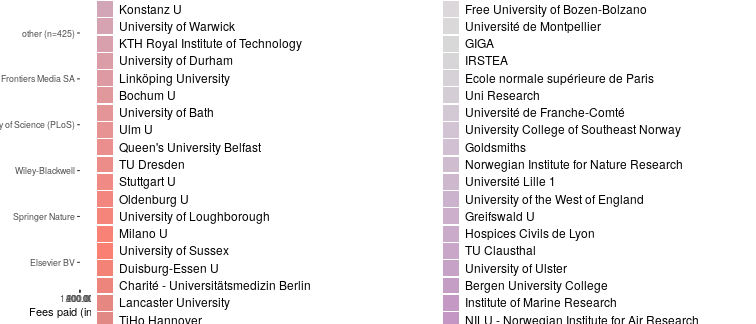
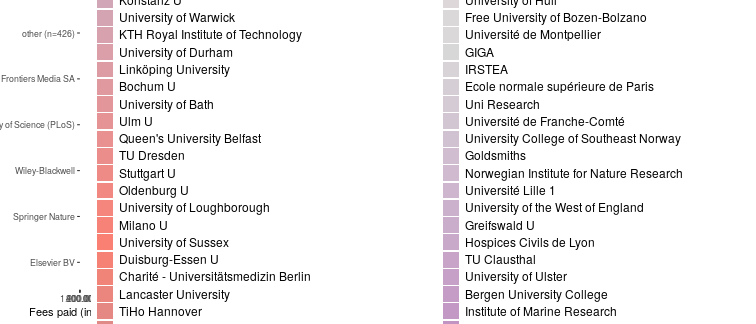
post: uni jyväskylä joins openapc

Changed region(s): [[0.578, 0.0, 0.9431, 1.0], [0.1217, 0.0, 0.4259, 1.0]]

diff --git a/about.md b/about.md
@@ -26,43 +26,43 @@ So far, the following German universities have agreed to share information on pa
 - [Heidelberg University](http://www.ub.uni-heidelberg.de/Englisch/service/openaccess/publikationsfonds.html)
 - [Humboldt-Universität zu Berlin](https://www.ub.hu-berlin.de/de/forschen-publizieren/open-access/foerdermoeglichkeiten/finanzierung/publikationsfonds?set_language=de)
 - [Leibniz Universität Hannover](https://tib.eu/oafonds)
-- [Leipzig University](https://www.ub.uni-leipzig.de/forschungsbibliothek/projekte/projekte-chronologisch/open-access-publikationsfonds/)
+- [Leipzig University](https://www.ub.uni-leipzig.de/open-science/publikationsfonds/)
 - [Ludwig-Maximilians-Universität München](http://www.en.ub.uni-muenchen.de/writing/open-access-publishing/funding/index.html)
 - [Martin-Luther-Universität Halle-Wittenberg](http://bibliothek.uni-halle.de/dbib/openaccess/publikationsfonds/)
 - [Philipps-Universität Marburg](https://www.uni-marburg.de/de/ub/forschen/open-access/publikationsfonds)
 - [Münster University](https://www.uni-muenster.de/Publizieren/service/publikationsfonds/)
 - [JGU Mainz](https://www.openaccess.uni-mainz.de/publikationsfonds-der-jgu/)
-- [JLU Giessen](https://www.uni-giessen.de/ub/en/digitales-publizieren-en/openaccess-en/oajlu-en?set_language=en)
+- [JLU Giessen](https://www.uni-giessen.de/ub/en/digitales-publizieren-en/openaccess-en/oafonds-en?set_language=en)
 - [KIT Karlsruhe](http://www.bibliothek.kit.edu/cms/kit-publikationsfonds.php)
 - [Osnabrück University](https://www.ub.uni-osnabrueck.de/publizieren_archivieren/open_access/publikationsfonds.html)
 - [Ruhr Universität Bochum](http://www.ruhr-uni-bochum.de/oa/)
 - [Technische Hochschule Wildau](https://www.th-wildau.de/hochschule/zentrale-einrichtungen/hochschulbibliothek/open-access-und-publikationsdienste/publikationsfonds/)
 - [Technische Universität Berlin](http://www.ub.tu-berlin.de/publikationsfonds/)
-- [Technische Universität Braunschweig](https://ub.tu-braunschweig.de/publikationsfonds/)
+- [Technische Universität Braunschweig](https://ub.tu-braunschweig.de/publikationsfonds/englisch/index_en.php)
 - [Technische Universität Chemnitz](https://www.tu-chemnitz.de/ub/publizieren/openaccess/index.html.en)
 - [Technische Universität Darmstadt](https://www.ulb.tu-darmstadt.de/service/elektronisches_publizieren/oa_publikationsfond/index.en.jsp)
-- [Technische Universität Dortmund](http://www.ub.tu-dortmund.de/open-access/index.html)
-- [Technische Universität Dresden](http://www.slub-dresden.de/service/schreiben-publizieren/open-access-service/publikationsfonds/)
-- [Technische Universität Ilmenau](https://www.tu-ilmenau.de/ub/service/open-access/oa-publikationsfonds/)
+- [Technische Universität Dortmund](https://www.ub.tu-dortmund.de/open-access/index.html.en)
+- [Technische Universität Dresden](https://www.slub-dresden.de/service/open-science-service/open-access/publikationsfonds/)
+- [Technische Universität Ilmenau](https://www.tu-ilmenau.de/ilmedia/open-access/oa-publikationsfonds/)
 - [Technische Universität München](https://www.ub.tum.de/en/publishing-fund)
 - [University of Bamberg](http://www.uni-bamberg.de/en/ub/publishing/open-access-publishing/open-access-funds/)
 - [University of Bremen](http://www.suub.uni-bremen.de/home-english/refworks-and-publishing/open-access-in-bremen-2/)
-- [University of Duisburg-Essen](https://www.uni-due.de/ub/en/openaccess_foerderung.shtml)
-- [University of Freiburg](https://www.ub.uni-freiburg.de/unterstuetzung/elektronisch-publizieren/open-access/publikationsfonds/)
+- [University of Duisburg-Essen](https://www.uni-due.de/ub/publikationsdienste/oa_foerderung.php)
+- [University of Freiburg](https://www.ub.uni-freiburg.de/en/support/electronic-publishing/open-access/open-access-publication-fund/)
 - [University of Göttingen](http://www.sub.uni-goettingen.de/en/electronic-publishing/open-access/open-access-publication-funding/)
 - [University of Greifswald](https://ub.uni-greifswald.de/en/service/for-academics/open-access/finanzierung-von-publikationen/publication-fund/)
 - [University of Kassel](http://www.uni-kassel.de/go/publikationsfonds)
-- [University of Konstanz](https://www.kim.uni-konstanz.de/en/services/scholarly-publishing-and-open-access/open-access-publication-funds/)
-- [University of Oldenburg](http://www.bis.uni-oldenburg.de/en/teachingresearchingpublishing/publishing/openaccesspublishing/open-access-publication-fund/)
+- [University of Konstanz](https://www.kim.uni-konstanz.de/en/openscience/publishing-and-open-access/open-access-publication-fund/)
+- [University of Oldenburg](https://uol.de/en/bis/teachingresearchingpublishing/open-access/open-access-publication-fund/)
 - [University of Potsdam](https://publishup.uni-potsdam.de/home/index/help/content/publication_fund)
 - [University of Regensburg](http://oa.uni-regensburg.de/)
-- [University of Rostock](https://www.ub.uni-rostock.de/wissenschaftliche-services/open-access/open-access-publizieren/)
+- [University of Rostock](https://www.ub.uni-rostock.de/en/support-for-researchers/open-access/open-access-publizieren/)
 - [University of Stuttgart](https://oa.uni-stuttgart.de/publizieren/fonds/)
 - [University of Trier](https://www.uni-trier.de/index.php?id=60802)
-- [University of Tübingen](https://www.uni-tuebingen.de/en/facilities/university-library/researching-publishing/open-access-publikationsfonds.html)
+- [University of Tübingen](https://uni-tuebingen.de/en/facilities/university-library/publishing-research/open-access/open-access-publikationsfonds/)
 - [University of Veterinary Medicine Hannover, Foundation (TiHo)](http://www.tiho-hannover.de/de/kliniken-institute/bibliothek/open-access/publikationsfonds-an-der-tiho/)
-- [University of Würzburg](http://www.bibliothek.uni-wuerzburg.de/en/service0/electronic_publishing/open_access/open_access_journals/)
-- [Ulm University](https://www.uni-ulm.de/index.php?id=57202)
+- [University of Würzburg](https://www.bibliothek.uni-wuerzburg.de/en/research-publishing/open-access/publication-fund/)
+- [Ulm University](https://www.uni-ulm.de/en/einrichtungen/kiz/service-katalog/wid/publikationsmanagement/oap/open-access/)
 
 ## Participating Research Society Funds in Germany
 
@@ -75,27 +75,28 @@ Participating Research Organizations:
 The data content covers APCs as paid for by our central budget for the Max Planck Society (MPS). APCs funded locally by Max Planck Institutes are not part of this data set. The MPS has a limited input tax reduction. The refund of input VAT for APC is 20%. Until the end of 2007 the MPS was VAT exempt.
 
 - [Fraunhofer Publishing Fund](https://www.openaccess.fraunhofer.de/en/open-access-strategy.html)
-- [Forschungszentrum Jülich](http://www.fz-juelich.de/portal/DE/Home/home_node.html)
+- [Forschungszentrum Jülich](https://www.fz-juelich.de/zb/DE/Leistungen/Open_Access/publikationsfonds/publikationsfonds_node.html)
+- [GEOMAR - Helmholtz Centre for Ocean Research Kiel](https://www.geomar.de/en/centre/central-facilities/library/)
 - [GIGA German Institute of Global and Area Studies](https://www.giga-hamburg.de/en/giga-open-access-guidelines)
 - [Helmholtz-Zentrum Dresden-Rossendorf](http://www.hzdr.de/db/Cms?pNid=73)
-- [Helmholtz-Zentrum für Umweltforschung - UFZ](https://www.ufz.de/index.php?de=33573)
-- [IGB - Leibniz-Institute of Freshwater Ecology and Inland Fisheries](http://www.igb-berlin.de/bibliothek)
-- [INM - Leibniz Institute for New Materials](http://bibliothek.inm-gmbh.de/publizieren/publikationsgebuhren/)
+- [Helmholtz-Zentrum für Umweltforschung - UFZ](https://www.ufz.de/index.php?en=36297)
+- [IGB - Leibniz-Institute of Freshwater Ecology and Inland Fisheries](https://www.igb-berlin.de/en/library)
+- [INM - Leibniz Institute for New Materials](https://www.ntnm-bib.de/research-publish/oa-finanzieren/?lang=en)
 - [IPN - Leibniz Institute for Science and Mathematics Education](http://www.ipn.uni-kiel.de/en/the-ipn/library/open-access)
 - [Leibniz Association's Open Access Publishing Fund](http://www.leibniz-gemeinschaft.de/en/infrastructures/open-access/open-access-publishing-fund/)
-- [Library Wissenschaftspark Albert Einstein](http://bib.telegrafenberg.de/en/library-wissenschaftspark-albert-einstein/) (provides APC data for the [GFZ](https://www.gfz-potsdam.de/en/home/) and the [PIK](https://www.pik-potsdam.de))
-- [Max Delbrück Center for Molecular Medicine (MDC)](https://www.mdc-berlin.de/1161876/de/about_the_mdc/structure/administration/library)
+- [Library Wissenschaftspark Albert Einstein](http://bib.telegrafenberg.de/en/publishing/open-access/) (provides APC data for the [GFZ](https://www.gfz-potsdam.de/en/home/) and the [PIK](https://www.pik-potsdam.de))
+- [Max Delbrück Center for Molecular Medicine (MDC)](https://www.mdc-berlin.de/about_the_mdc/structure/administration/library/oa?mdcbl%5B0%5D=/library&mdctl=0&mdcou=0&mdcot=0&mdcbv=nqe3t2xG8PGtPtxTs7kNhLVIaYkEwltgLl3DWBohxeI)
 - [Technische Informationsbibliothek (TIB) - German National Library of Science and Technology](https://www.tib.eu/en/service/tib-open-access-policy/)
 - [WIAS - Weierstrass Institute for Applied Analysis and Stochastics](https://www.wias-berlin.de/services/library/)
 
 ## Other German Research Institutions
 
-- [Institut für Arbeitsmarkt- und Berufsforschung (IAB)](http://www.iab.de/en/publikationen.aspx)
+- [Institut für Arbeitsmarkt- und Berufsforschung (IAB)](https://www.iab.de/de/informationsservice/open-access-im-iab.aspx)
 
 ## Participating Austrian Institutions
 
 - [FWF - Austrian Science Fund](https://www.fwf.ac.at/en/research-funding/open-access-policy/)
-- [Institute of Science and Technology Austria](https://ist.ac.at/open-access/open-access-policy/)
+- [Institute of Science and Technology Austria](https://ist.ac.at/en/research/library/publish-communicate/)
 - [Technische Universität Wien](http://www.ub.tuwien.ac.at/eng/openaccess)
 
 ## Participating Swiss Institutions
@@ -104,7 +105,7 @@ The data content covers APCs as paid for by our central budget for the Max Planc
 
 ## Participating Italian Institutions
 
-- [Free University of Bozen-Bolzano](https://www.unibz.it/)
+- [Free University of Bozen-Bolzano](https://www.unibz.it/en/services/library/publishing-at-unibz/unibz-open-access-publishing-fund/)
 - [Università degli Studi di Milano](http://www.unimi.it/ENG/)
 
 ## Institutions from Norway:
@@ -145,7 +146,7 @@ The data content covers APCs as paid for by our central budget for the Max Planc
 
 ## Participating Spanish Institutions:
 
-- [Universitat de Barcelona](http://www.ub.edu/web/ub/en/index.html)
+- [Universitat de Barcelona](http://crai.ub.edu/en/crai-services/open-access-ub)
 
 ## Institutions from Sweden (via [Open APC Sweden](https://github.com/Kungbib/openapc-se)):
 
@@ -166,6 +167,10 @@ The data content covers APCs as paid for by our central budget for the Max Planc
 - Stockholm University
 - Umeå University
 - Uppsala University
+
+## Institutions from Finland:
+
+- [University of Jyväskylä](https://openscience.jyu.fi/en/open-access-publishing)
 
 ## Institutions from France
 
@@ -289,7 +294,7 @@ Jisc Collections released data on APC payments made by UK higher education insti
 
 ## Participating Institutions from the Czech Republic (contributed by [CzechELib](https://www.czechelib.cz/en/)):
 
-- [University of Chemistry and Technology, Prague](https://www.vscht.cz/?jazyk=en)
+- [University of Chemistry and Technology, Prague](https://www.chemtk.cz/en/)
 
 ## Participating Institutions from Hungary
 
@@ -312,20 +317,20 @@ Jisc Collections released data on APC payments made by UK higher education insti
 
 ## Supranational participants
 
-- [OpenAIRE](https://www.openaire.eu/postgrantoapilot) (FP7 Post-Grant Open Access Pilot)
+- [OpenAIRE](https://www.openaire.eu/fp7-oapilot) (FP7 Post-Grant Open Access Pilot)
 
 ## Dataset
 
 
 Information on both open access journal articles and open access publication of articles in toll-access journals ("hybrid") are provided.
 
-In total,  153 014 435 € for  78 592 articles were paid by the participating unviversities. Average  fee is 1 946.9 € and the median 1 747 €.
+In total,  153 785 749 € for  79 060 articles were paid by the participating unviversities. Average  fee is 1 945.2 € and the median 1 745 €.
 
 ### Open Access Journals
 
 
 
-At the moment, the dataset releases information on 46 306 articles in open access journals which charge publication fees. Total expenditure amounts to  72 156 521 €. Average  fee is 1 558.3 € and the median 1 475 €.
+At the moment, the dataset releases information on 46 688 articles in open access journals which charge publication fees. Total expenditure amounts to  72 763 018 €. Average  fee is 1 558.5 € and the median 1 476 €.
 
 View dataset on [GitHub](https://github.com/OpenAPC/openapc-de/blob/master/data/apc_de.csv).
 
@@ -353,7 +358,7 @@ View dataset on [GitHub](https://github.com/OpenAPC/openapc-de/blob/master/data/
 |CNRS                                                            |    1,482|         2,370,264|         1,599|  1,365|
 |Cranfield University                                            |       26|            40,286|         1,549|  1,370|
 |Dalarna University College                                      |       42|            58,641|         1,396|  1,458|
-|Dortmund TU                                                     |       61|            75,727|         1,241|  1,426|
+|Dortmund TU                                                     |       82|           102,584|         1,251|  1,391|
 |Duisburg-Essen U                                                |      235|           320,066|         1,362|  1,276|
 |Ecole normale supérieure de Paris                               |       16|            35,538|         2,221|  2,027|
 |Edinburgh Napier University                                     |        4|             6,222|         1,556|  1,297|
@@ -368,8 +373,9 @@ View dataset on [GitHub](https://github.com/OpenAPC/openapc-de/blob/master/data/
 |FWF - Austrian Science Fund                                     |    1,393|         2,297,299|         1,649|  1,489|
 |FZJ - ZB                                                        |      569|           794,874|         1,397|  1,302|
 |GenØk - Centre for Biosafety                                    |        5|             5,295|         1,059|  1,109|
+|GEOMAR                                                          |      152|           270,887|         1,782|  1,490|
 |GFZ-Potsdam                                                     |      225|           306,753|         1,363|  1,257|
-|Giessen U                                                       |      577|           867,381|         1,503|  1,478|
+|Giessen U                                                       |      655|           990,314|         1,512|  1,503|
 |GIGA                                                            |       NA|                NA|            NA|     NA|
 |Glasgow Caledonian University                                   |        3|             4,732|         1,577|  1,867|
 |Goettingen U                                                    |    1,326|         1,953,026|         1,473|  1,468|
@@ -382,8 +388,8 @@ View dataset on [GitHub](https://github.com/OpenAPC/openapc-de/blob/master/data/
 |Heidelberg U                                                    |      874|         1,316,640|         1,506|  1,658|
 |Heriot-Watt University                                          |       33|            79,717|         2,416|  2,248|
 |Hospices Civils de Lyon                                         |       10|            16,128|         1,613|  1,554|
-|HU Berlin                                                       |       24|            38,443|         1,602|  1,731|
-|HZDR                                                            |      116|           171,305|         1,477|  1,296|
+|HU Berlin                                                       |       23|            37,215|         1,618|  1,831|
+|HZDR                                                            |      113|           158,572|         1,403|  1,285|
 |IFSTTAR                                                         |       11|            11,320|         1,029|    855|
 |Imperial College London                                         |      997|         1,911,344|         1,917|  1,624|
 |Indiana University - Purdue University Indianapolis (IUPUI)     |      114|           166,599|         1,461|  1,362|
@@ -401,6 +407,7 @@ View dataset on [GitHub](https://github.com/OpenAPC/openapc-de/blob/master/data/
 |IRSTEA                                                          |       21|            27,516|         1,310|  1,495|
 |IST Austria                                                     |       25|            61,328|         2,453|  1,872|
 |JGU Mainz                                                       |      489|           689,314|         1,410|  1,434|
+|Jyväskylä U                                                     |       26|            42,283|         1,626|  1,569|
 |Karolinska Institutet                                           |        8|             5,073|           634|    755|
 |Kassel U                                                        |      130|           145,386|         1,118|  1,105|
 |Keele University                                                |       19|            31,431|         1,654|  1,644|
@@ -453,7 +460,7 @@ View dataset on [GitHub](https://github.com/OpenAPC/openapc-de/blob/master/data/
 |Osnabrück U                                                     |       95|           138,141|         1,454|  1,553|
 |PIK-Potsdam                                                     |       48|            80,429|         1,676|  1,539|
 |Plymouth University                                             |       26|            37,850|         1,456|  1,438|
-|Potsdam U                                                       |      112|           165,158|         1,475|  1,530|
+|Potsdam U                                                       |      173|           253,313|         1,464|  1,531|
 |Qatar National Library                                          |       30|            49,771|         1,659|  1,411|
 |Queen Mary, University of London                                |       53|            89,135|         1,682|  1,250|
 |Queen's University Belfast                                      |      216|           350,202|         1,621|  1,454|
@@ -485,7 +492,7 @@ View dataset on [GitHub](https://github.com/OpenAPC/openapc-de/blob/master/data/
 |TU Wien                                                         |       45|            61,645|         1,370|  1,323|
 |Tuebingen U                                                     |      789|         1,114,397|         1,412|  1,442|
 |UCL                                                             |    2,454|         4,150,875|         1,691|  1,582|
-|UFZ                                                             |       98|           119,123|         1,216|  1,258|
+|UFZ                                                             |      146|           188,467|         1,291|  1,269|
 |Ulm U                                                           |      271|           443,958|         1,638|  1,598|
 |Umeå University                                                 |       10|            10,604|         1,060|    755|
 |Uni Research                                                    |       19|            28,070|         1,477|  1,474|
@@ -576,7 +583,7 @@ View dataset on [GitHub](https://github.com/OpenAPC/openapc-de/blob/master/data/
 
 
 In many toll-access journals some of the articles are open access after a fee has been paid. This model is often called "hybrid open access".
-The dataset covers 32 286 hybrid open access articles. Total expenditure amounts to  80 857 914 €. Average  fee is 2 504.4 € and the median 2 450 €.
+The dataset covers 32 372 hybrid open access articles. Total expenditure amounts to  81 022 731 €. Average  fee is 2 502.9 € and the median 2 449 €.
 
 The following institutions have contributed its expenditures for hybrid open access.
 
@@ -607,6 +614,7 @@ The following institutions have contributed its expenditures for hybrid open acc
 |FWF - Austrian Science Fund                                 |    3,769|         9,271,505|         2,460|  2,599|
 |FZJ - ZB                                                    |      127|           261,027|         2,055|  2,000|
 |GenØk - Centre for Biosafety                                |        2|             3,650|         1,825|  1,825|
+|GEOMAR                                                      |       56|           134,700|         2,405|  2,480|
 |GFZ-Potsdam                                                 |       18|            44,680|         2,482|  2,618|
 |GIGA                                                        |       21|            49,204|         2,343|  2,463|
 |Glasgow Caledonian University                               |        4|            13,215|         3,304|  3,382|
@@ -628,6 +636,7 @@ The following institutions have contributed its expenditures for hybrid open acc
 |IPN - Leibniz Kiel                                          |       54|           123,170|         2,281|  2,388|
 |IST Austria                                                 |       16|            49,968|         3,123|  3,135|
 |JGU Mainz                                                   |        1|             1,792|         1,792|  1,792|
+|Jyväskylä U                                                 |       31|            32,655|         1,053|    860|
 |Karolinska Institutet                                       |       24|            37,567|         1,565|  1,774|
 |Keele University                                            |       25|            65,045|         2,602|  2,644|
 |King's College London                                       |      936|         2,532,498|         2,706|  2,640|
@@ -706,7 +715,7 @@ The following institutions have contributed its expenditures for hybrid open acc
 |University of Dundee                                        |      114|           292,141|         2,563|  2,498|
 |University of Durham                                        |      265|           563,728|         2,127|  2,091|
 |University of East Anglia                                   |       61|           138,852|         2,276|  2,088|
-|University of Edinburgh                                     |      898|         2,360,785|         2,629|  2,513|
+|University of Edinburgh                                     |      897|         2,358,247|         2,629|  2,513|
 |University of Exeter                                        |      286|           784,288|         2,742|  2,673|
 |University of Glasgow                                       |      682|         1,785,849|         2,619|  2,489|
 |University of Gothenburg                                    |      198|           481,259|         2,431|  2,522|
@@ -813,7 +822,7 @@ For data enrichment, sample visualisations and explorations we build on the work
 
 ## Contributors
 
-Jens Harald Aasheim, Benjamin Ahlborn, Chelsea Ambler, Magdalena Andrae, Jochen Apel, Hans-Georg Becker, Roland Bertelmann, Daniel Beucke, Peter Blume, Ute Blumtritt, Sabine Boccalini, Stefanie Bollin, Kim Braun, Christoph Broschinski, Paolo Buoso, Cliff Buschhart, Dorothea Busjahn, Pablo de Castro, Roberto Cozatl, Amanda Cullin, Patrick Danowski, Gernot Deinzer, Julia Dickel, Andrea Dorner, Stefan Drößler, Karin Eckert, Carsten Elsner, Clemens Engelhardt, Inken Feldsien-Sudhaus, Fabian Franke, Claudia Frick, Marléne Friedrich, Paola Galimberti, Agnes Geißelmann, Kai Karin Geschuhn, Steffi Grimm, Christian Gutknecht, Uli Hahn, Kristina Hanig, Margit L. Hartung, Dominik Hell, Ulrich Herb, Stephanie Herzog, Ute Holzwarth, Christie Hurrell, Doris Jaeger, Najko Jahn, Alexandra Jobmann, Mirjam Kant, Andreas Kennecke, Robert Kiley, Ilka Kleinod, Lydia Koglin, Gerrit Kuehle, Ignasi Labastida i Juan, Gerald Langhanke, Stuart Lawson, Camilla Lindelöw, Kathrin Lucht-Roussel, Jan Lüth, Frank Lützenkirchen, Steffen Malo, Anna Marini, Anja Oberländer, Jere Odell, Vitali Peil, Dirk Pieper, Tobias Pohlmann, Thomas Porquet, Markus Putnings, Annette Scheiner, Michael Schlachter, Birgit Schlegel, Stefanie Seeh, Adriana Sikora, Susanne Stemmler, Matti Stöhr, Eva Stopková, Andrée Rathemacher, Edith Reschke, Katharina Rieck, Florian Ruckelshausen, Ilka Rudolf, Marco Tullney,  Milan Vasiljevic, Astrid Vieler, Viola Voß, Marco Winkler, Sabine Witt, Philip Young
+Jens Harald Aasheim, Benjamin Ahlborn, Chelsea Ambler, Magdalena Andrae, Jochen Apel, Hans-Georg Becker, Roland Bertelmann, Daniel Beucke, Peter Blume, Ute Blumtritt, Sabine Boccalini, Stefanie Bollin, Kim Braun, Christoph Broschinski, Paolo Buoso, Cliff Buschhart, Dorothea Busjahn, Pablo de Castro, Roberto Cozatl, Amanda Cullin, Patrick Danowski, Gernot Deinzer, Julia Dickel, Andrea Dorner, Stefan Drößler, Karin Eckert, Carsten Elsner, Clemens Engelhardt, Katrin Falkenstein-Feldhoff, Inken Feldsien-Sudhaus, Silke Frank, Fabian Franke, Claudia Frick, Marléne Friedrich, Paola Galimberti, Agnes Geißelmann, Kai Karin Geschuhn, Steffi Grimm, Ute Grimmel-Holzwarth, Evgenia Grishina, Christian Gutknecht, Uli Hahn, Kristina Hanig, Margit L. Hartung, Dominik Hell, Ulrich Herb, Stephanie Herzog, Kathrin Höhner, Christie Hurrell, Arto Ikonen, Doris Jaeger, Najko Jahn, Alexandra Jobmann, Nadja Kalinna, Mirjam Kant, Andreas Kennecke, Robert Kiley, Ilka Kleinod, Lydia Koglin, Stephanie Kroiß, Gerrit Kuehle, Ignasi Labastida i Juan, Gerald Langhanke, Inga Larres, Stuart Lawson, Camilla Lindelöw, Kathrin Lucht-Roussel, Jan Lüth, Frank Lützenkirchen, Steffen Malo, Anna Marini, Anja Oberländer, Jere Odell, Vitali Peil, Gabriele Pendorf, Dirk Pieper, Tobias Pohlmann, Thomas Porquet, Markus Putnings, Andrée Rathemacher, Edith Reschke, Katharina Rieck, Friedrich Riedel, Florian Ruckelshausen, Ilka Rudolf, Annette Scheiner, Michael Schlachter, Birgit Schlegel, Barbara Schmidt, Stefanie Seeh, Barbara Senkbeil-Stoffels, Adriana Sikora, Susanne Stemmler, Matti Stöhr, Eva Stopková, Kálmán Szőke, Linda Thomas, Johanna Tönsing, Marco Tullney,  Milan Vasiljevic, Astrid Vieler, Viola Voß, Roland Wagner, Marco Winkler, Sabine Witt, Michael Wohlgemuth, Philip Young
 
 ## Contact
 

diff --git a/_posts/2019-06-07-jyväskylä.md b/_posts/2019-06-07-jyväskylä.md
@@ -1,0 +1,51 @@
+---
+layout:     post
+author:     Christoph Broschinski
+author_lnk: https://github.com/cbroschinski
+title:      University of Jyväskylä joins OpenAPC
+date:       2019-06-07 09:00:00
+summary:    
+categories: [general, openAPC]
+comments: true
+---
+
+
+
+
+We welcome the [University of Jyväskylä](https://www.jyu.fi/en/) as new contributing institution and as our first participant from Finland!
+
+The University's [Open Science Centre](https://osc.jyu.fi/en) provided an initial data set on APC expenditures at Jyväskylä.
+
+Contact Person is [Arto Ikonen](mailto:arto.ikonen@jyu.fi).
+
+## Cost data
+
+
+
+The initial data set covers publication fees for 57 articles published at the University of Jyväskylä in 2018. Total expenditure amounts to 74 938€ and the average fee is 1 315€.
+
+
+|                                  | Articles| Fees paid in EURO| Mean Fee paid|
+|:---------------------------------|--------:|-----------------:|-------------:|
+|Informa UK Limited                |       27|             24668|           914|
+|Springer Nature                   |       11|             17238|          1567|
+|Wiley-Blackwell                   |        7|             12032|          1719|
+|Frontiers Media SA                |        4|              8190|          2048|
+|Elsevier BV                       |        3|              5383|          1794|
+|Aarhus University Library         |        1|               265|           265|
+|American Geophysical Union (AGU)  |        1|              1412|          1412|
+|American Society for Microbiology |        1|              3016|          3016|
+|Genetics Society of America       |        1|              1864|          1864|
+|Oxford University Press (OUP)     |        1|               870|           870|
+
+## Overview
+
+A detailed analysis of the contributed data provides the following overview:
+
+### Fees paid per publisher (in EURO)
+
+![plot of chunk tree_jyväskylä_2019_06_07_full](/figure/tree_jyväskylä_2019_06_07_full-1.png)
+
+###  Average costs per publisher (in EURO)
+
+![plot of chunk box_jyväskylä_2019_06_07_publisher_full](/figure/box_jyväskylä_2019_06_07_publisher_full-1.png)
